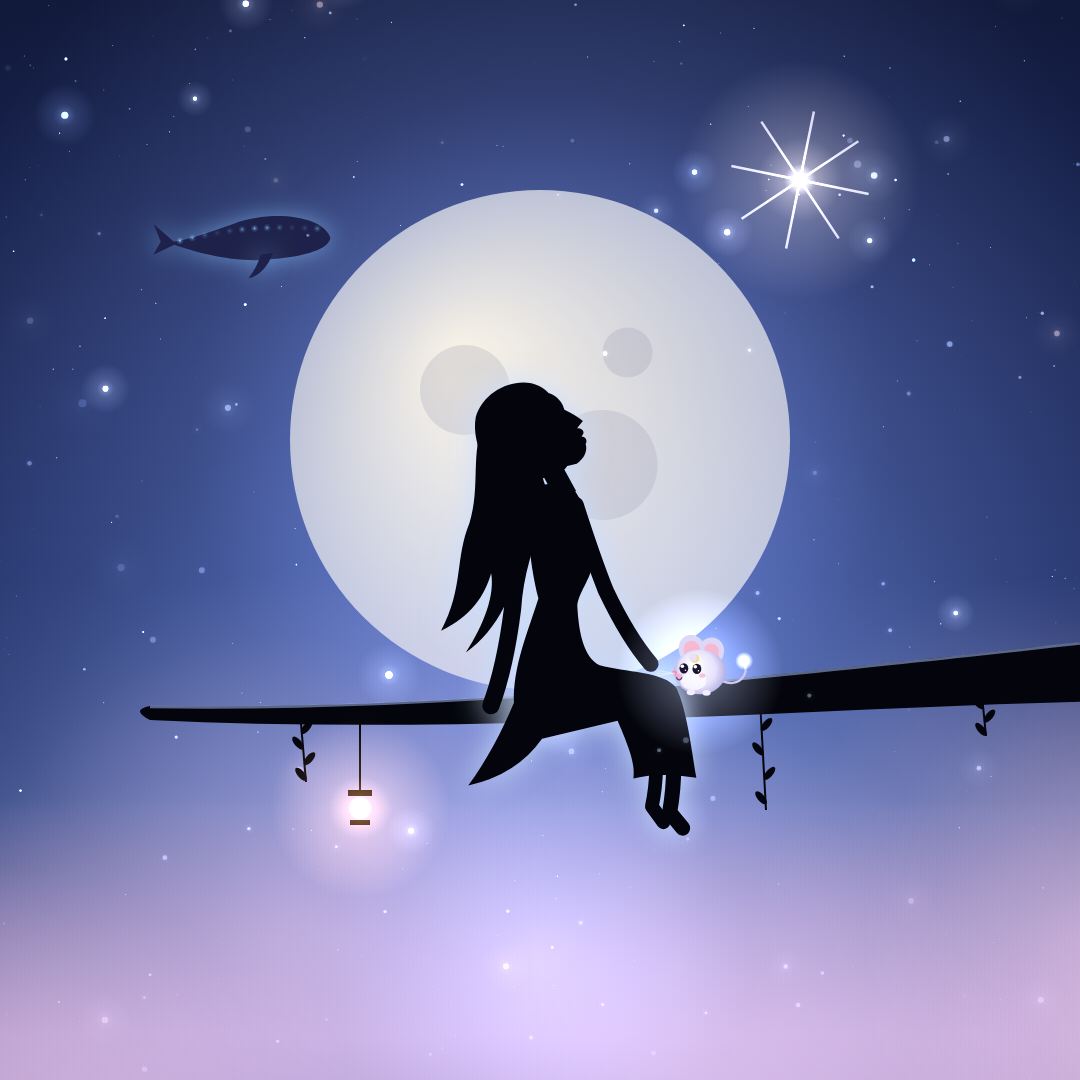
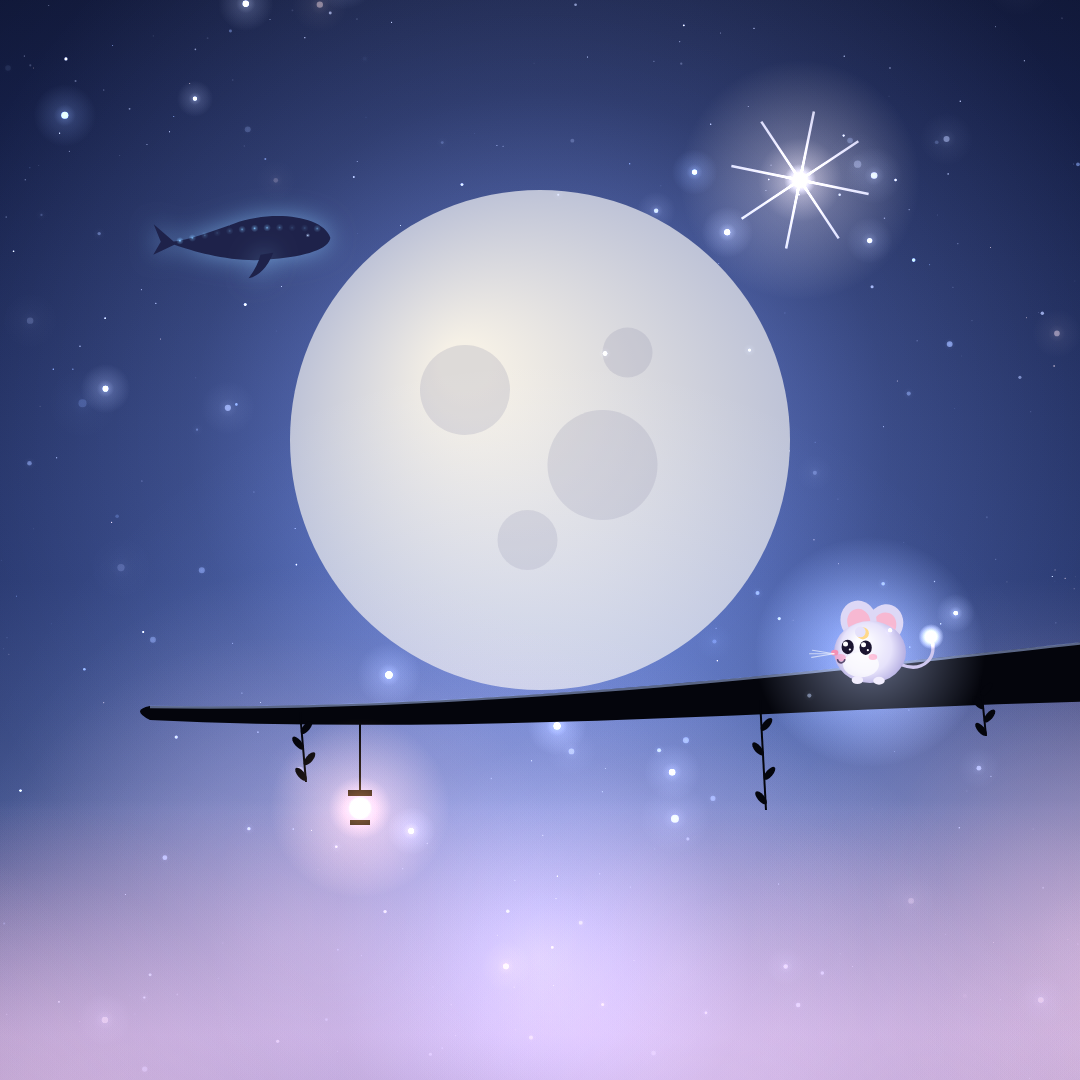
Leben in Valdoria: Profilbild ohne Neraya (Lunara, Mond, Himmelswal), Bio-Empfehlung
Claude-Session: https://claude.ai/code/session_01McNdgartso3nbaZ6x41dY1

Changed region(s): [[0.3972, 0.3361, 0.9167, 0.7944]]

diff --git a/stories/branding/profilbild.js b/stories/branding/profilbild.js
@@ -1,4 +1,4 @@
-// Profilbild "Leben in Valdoria": Neraya im Mondlicht auf einem Ast, Lunara daneben, ein Himmelswal.
+// Profilbild "Leben in Valdoria": Lunara auf einem Ast vor dem Vollmond, ein Himmelswal, eine Laterne.
 // Usage: NODE_PATH=$(npm root -g) node branding/profilbild.js  -> branding/profilbild.png (1080x1080)
 const { chromium } = require('playwright');
 const path = require('path'), fs = require('fs');
@@ -39,14 +39,8 @@ const path = require('path'), fs = require('fs');
     c.strokeStyle = col; c.lineWidth = 2; c.beginPath(); c.moveTo(360, 1094); c.lineTo(360, 1170); c.stroke();
     c.fillStyle = col; c.fillRect(348, 1170, 24, 6); c.fillRect(350, 1200, 20, 5);
     c.save(); c.globalCompositeOperation = 'lighter'; glow(360, 1188, 90, 'rgba(255,170,90,A)', 0.6); glow(360, 1188, 12, 'rgba(255,225,170,A)', 1); c.restore();
-    // Neraya, silhouetted against the moon, looking up at the brightest star
-    silhouette('rgba(200,220,255,0.95)', 30, () => {
-      ctx.save(); ctx.translate(560, 1090); ctx.scale(7.2, 7.2);
-      sittingHeroine(0, 0, 1, t, { look: -0.5, color: '#04050c' });
-      ctx.restore();
-    });
-    // Lunara on the branch beside her
-    moonMouse(700, 1052, 26, t, { dir: -1, mood: 'happy', fly: false, seed: 0.4 });
+    // Lunara on the branch in front of the moon
+    moonMouse(870, 1032, 36, t, { dir: -1, mood: 'happy', fly: false, seed: 0.4 });
     particles(t, 40, { y0: 1500, dy: -1100, a: 0.5, color: 'rgba(200,220,255,A)', r: 2, life: 9, glowR: 6 });
     // crop to the square around the subject
     const sq = document.createElement('canvas'); sq.width = 1080; sq.height = 1080;

diff --git a/stories/branding/bio.md b/stories/branding/bio.md
@@ -2,12 +2,12 @@
 
 **Name:** Leben in Valdoria
 
-**Bio (max. 80 Zeichen):**
-Hier leuchten Laternen über den Wolken – und die Sterne verbergen etwas. ✨
+**Bio (max. 80 Zeichen, empfohlen):**
+Willkommen in Valdoria. Schau nach oben … einer fehlt. ✨
 
 **Alternativen:**
+- Hier leuchten Laternen über den Wolken – und die Sterne verbergen etwas. ✨
 - Neraya, 17. Eine Mondmaus. Und ein Stern, der nie hätte fallen dürfen. 🌙
-- Willkommen in Valdoria. Schau nach oben … einer fehlt. ✨
 - Eine Welt über den Wolken. 20 Folgen. Die Wahrheit liegt darunter. 🌙
 
 **Angepinnter Kommentar unter Folge 1:**
